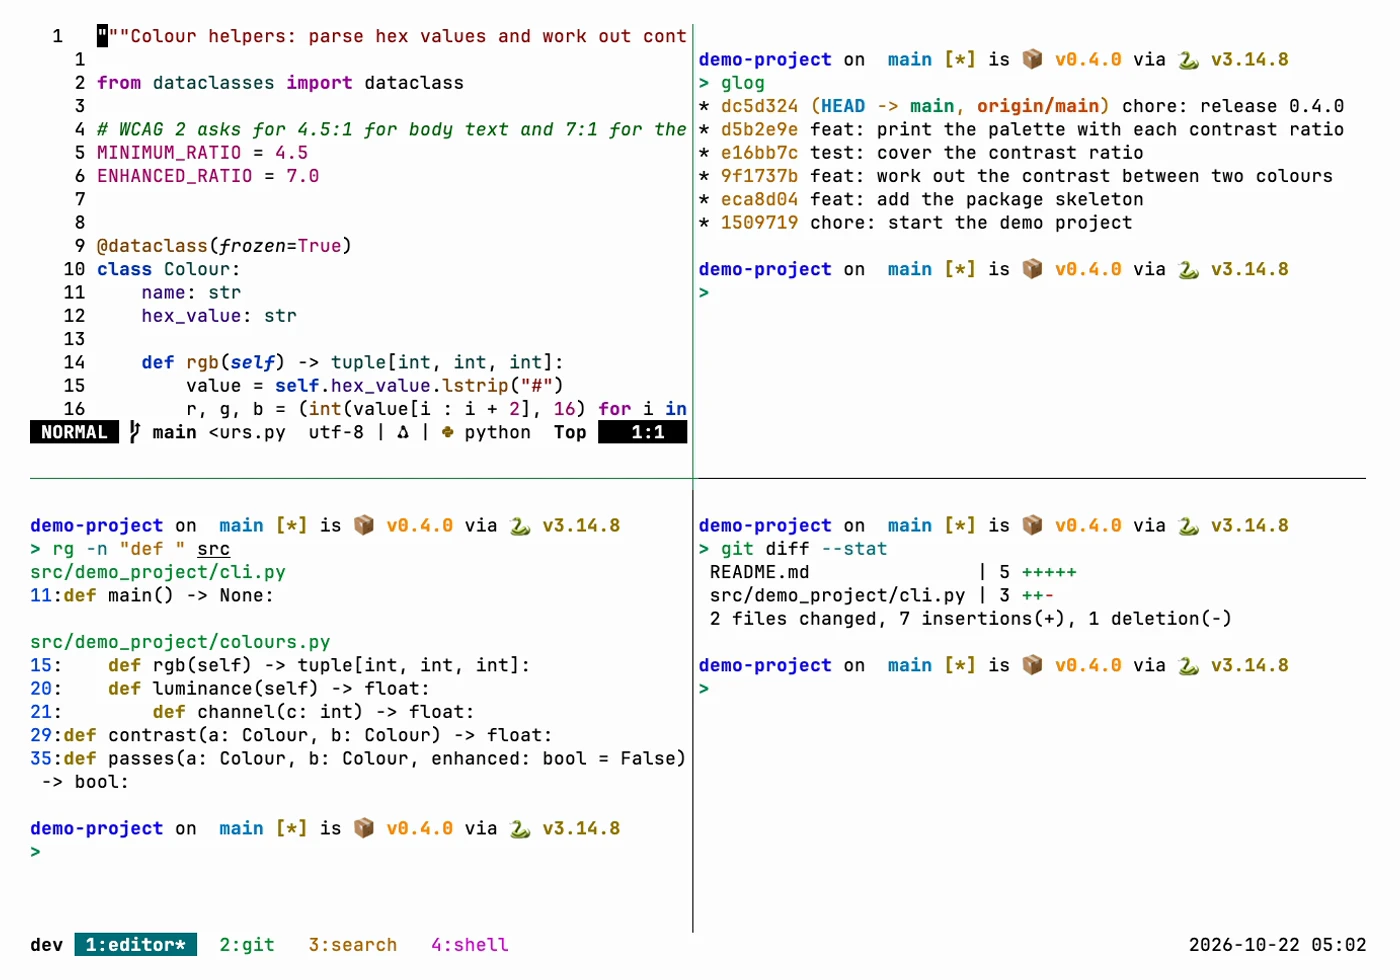
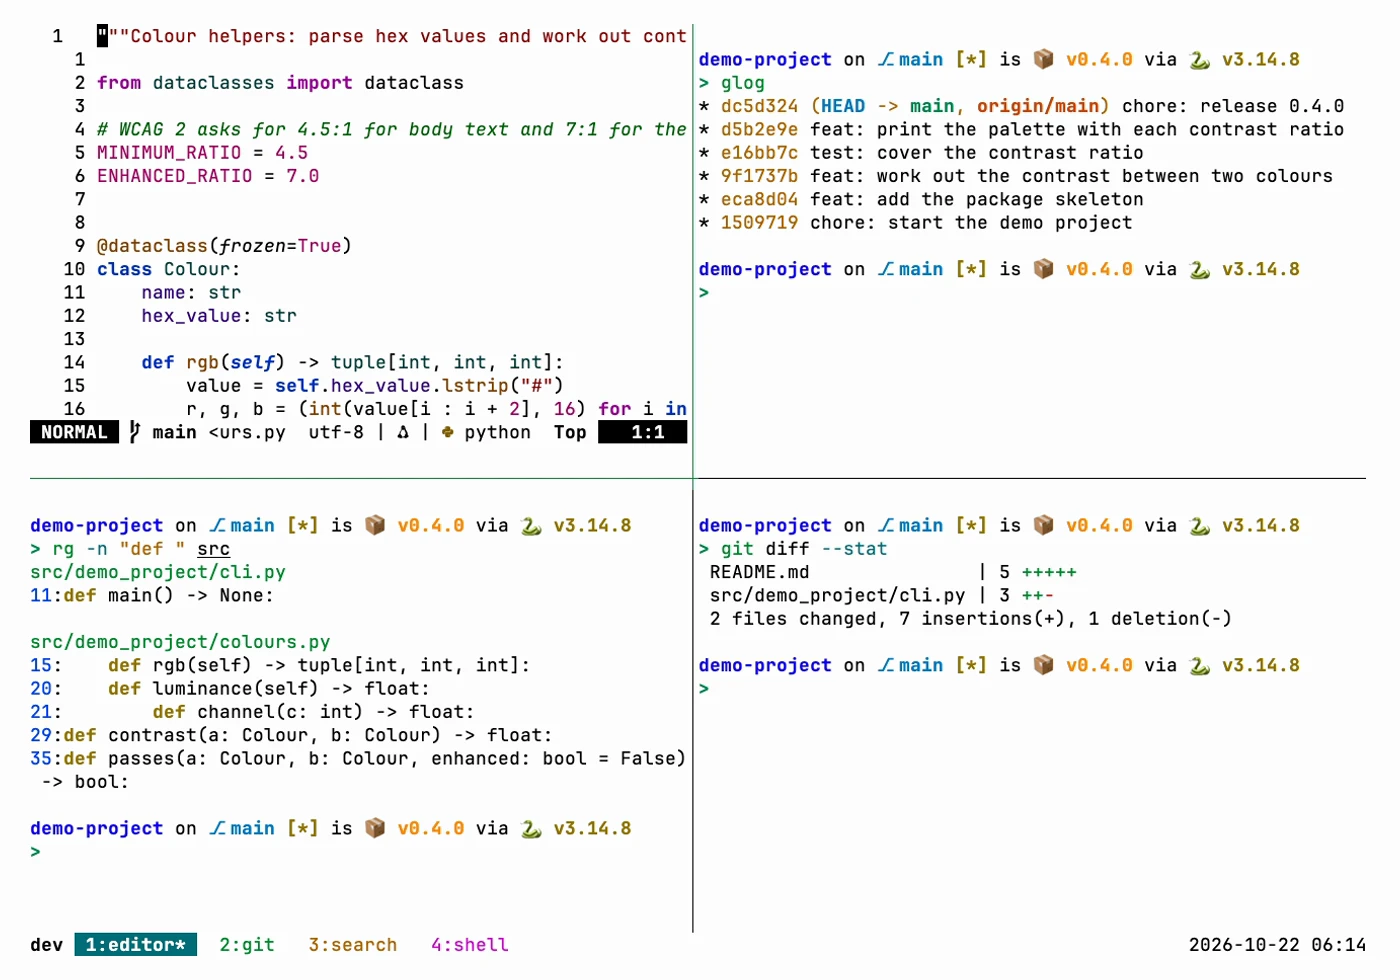
docs: add Yellow on Black and Cream demo media (#22)
Closes #21

diff --git a/README.md b/README.md
@@ -5,17 +5,22 @@
 
 ## In action
 
-Screenshots in Zacess Deep Contrast Dark and Light, recorded in a demo project. Each one links
-to a short animation of the same scene.
+Screenshots in four Zacess themes, Deep Contrast Dark and Light, Yellow on Black and Cream,
+recorded in a demo project. Each one links to a short animation of the same scene.
 
 ### tmux
 
-| Dark | Light |
+| Deep Contrast Dark | Deep Contrast Light |
 | --- | --- |
 | [![Dark: tmux with four coloured tabs named editor, git, search and shell, the editor window split into Neovim, a ripgrep search, a git log and a diff summary](docs/demo/tmux-dark.webp)](docs/demo/tmux-dark.gif) | [![Light: tmux with four coloured tabs named editor, git, search and shell, the editor window split into Neovim, a ripgrep search, a git log and a diff summary](docs/demo/tmux-light.webp)](docs/demo/tmux-light.gif) |
 
+| Yellow on Black | Cream |
+| --- | --- |
+| [![Yellow on Black: tmux with four coloured tabs named editor, git, search and shell, the editor window split into Neovim, a ripgrep search, a git log and a diff summary](docs/demo/tmux-yellow-on-black.webp)](docs/demo/tmux-yellow-on-black.gif) | [![Cream: tmux with four coloured tabs named editor, git, search and shell, the editor window split into Neovim, a ripgrep search, a git log and a diff summary](docs/demo/tmux-cream.webp)](docs/demo/tmux-cream.gif) |
+
 The shots show the real config in a throwaway demo project, in
-[Zacess Themes](https://github.com/zacesshq/themes) Deep Contrast Dark and Light.
+[Zacess Themes](https://github.com/zacesshq/themes) Deep Contrast Dark and Light, Yellow on Black
+and Cream.
 
 ## What's here
 
